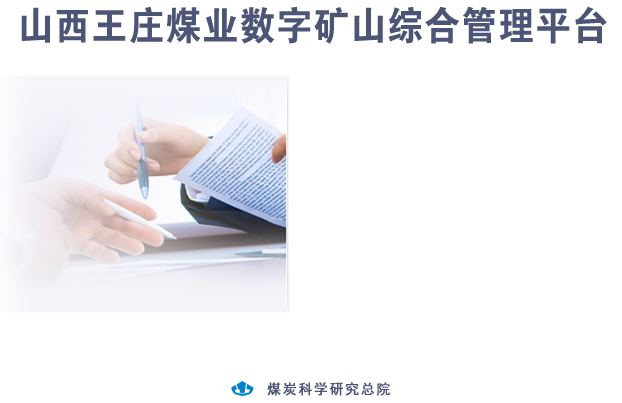
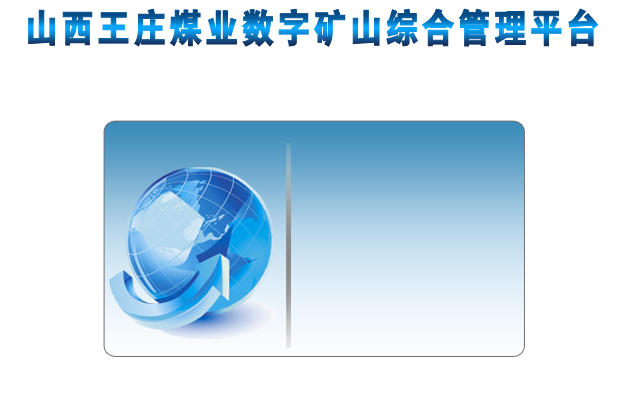
更新登陆页面设计

diff --git a/src/main/webapp/WEB-INF/resources/scripts/app/login.js b/src/main/webapp/WEB-INF/resources/scripts/app/login.js
@@ -57,8 +57,8 @@ define(function(require, exports, module) {
 			offsetLeft = 0;
 		}
 		$('#loginForm').offset({
-			top : offsetTop + 140,
-			left : offsetLeft + 320
+			top : offsetTop + 170,
+			left : offsetLeft + 315
 		});
 		$('#loginBg').offset({
 			top : offsetTop,

diff --git a/src/main/java/cn/ccrise/spimp/system/service/InitService.java b/src/main/java/cn/ccrise/spimp/system/service/InitService.java
@@ -105,7 +105,7 @@ public class InitService extends DataInitAbstractService {
 		dicitonaryTypeService.save("安全生产管理", "schedule_wellheads", "井口");
 		dicitonaryTypeService.save("安全生产管理", "schedule_alarm_type", "报警类型");
 		dicitonaryTypeService.save("安全生产管理", "document_project_type", "工程分类");
-		String projectTypes[] = { "防治水","掘进" };
+		String projectTypes[] = { "防治水", "掘进" };
 		for (String element : projectTypes) {
 			Dictionary dic = new Dictionary();
 			dic.setTypeCode("document_project_type");

diff --git a/src/main/java/cn/ccrise/spimp/system/service/Document2PDFConvertService.java b/src/main/java/cn/ccrise/spimp/system/service/Document2PDFConvertService.java
@@ -23,7 +23,7 @@ public class Document2PDFConvertService {
 	private OpenOfficeConnection connection;
 	private Process process;
 
-	private Document2PDFConvertService(){
+	private Document2PDFConvertService() {
 		super();
 		try {
 			Runtime.getRuntime().exec("soffice.exe -headless -accept=\"socket,host=127.0.0.1,port=8100;urp;\"");
@@ -31,6 +31,7 @@ public class Document2PDFConvertService {
 			e.printStackTrace();
 		}
 	}
+
 	/**
 	 * 关闭服务
 	 */
